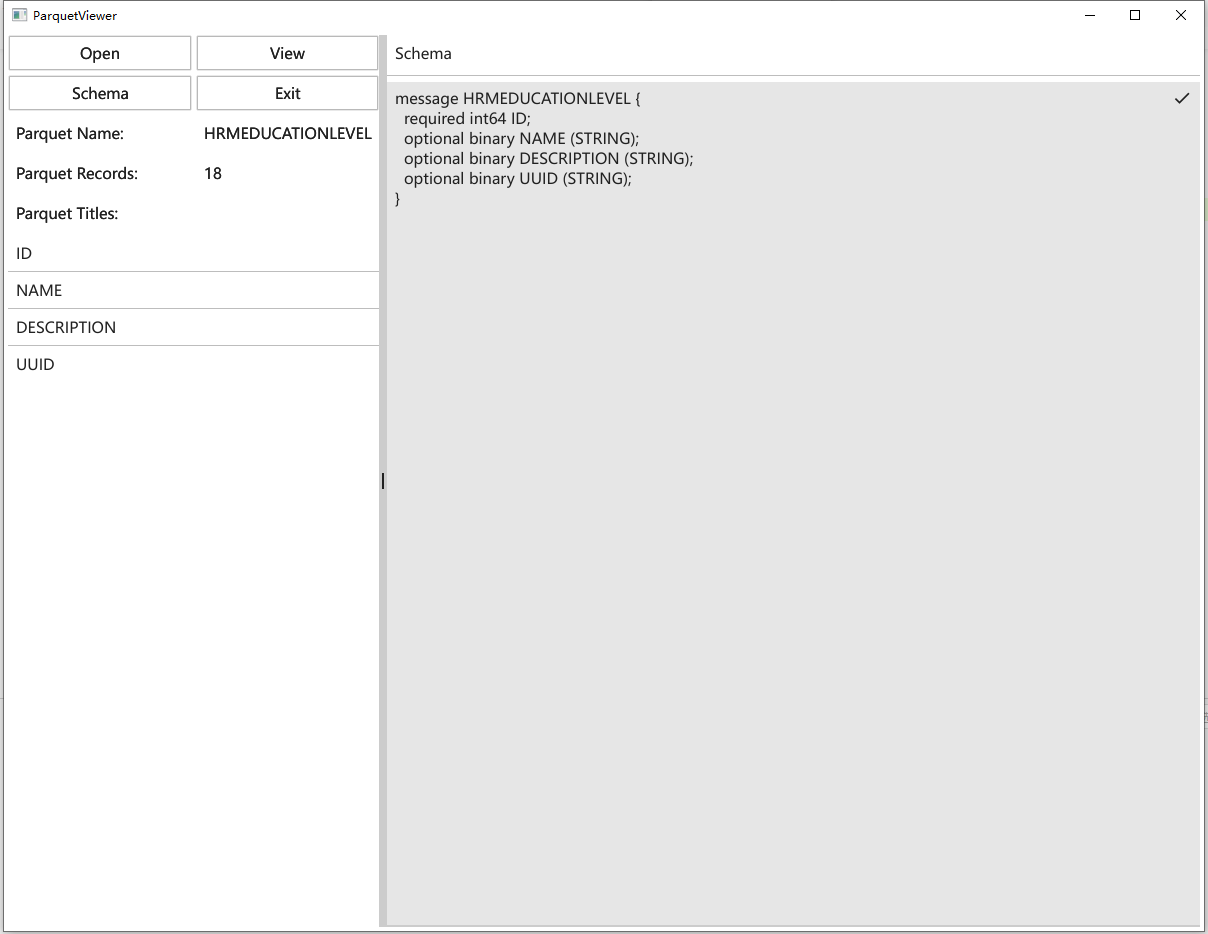
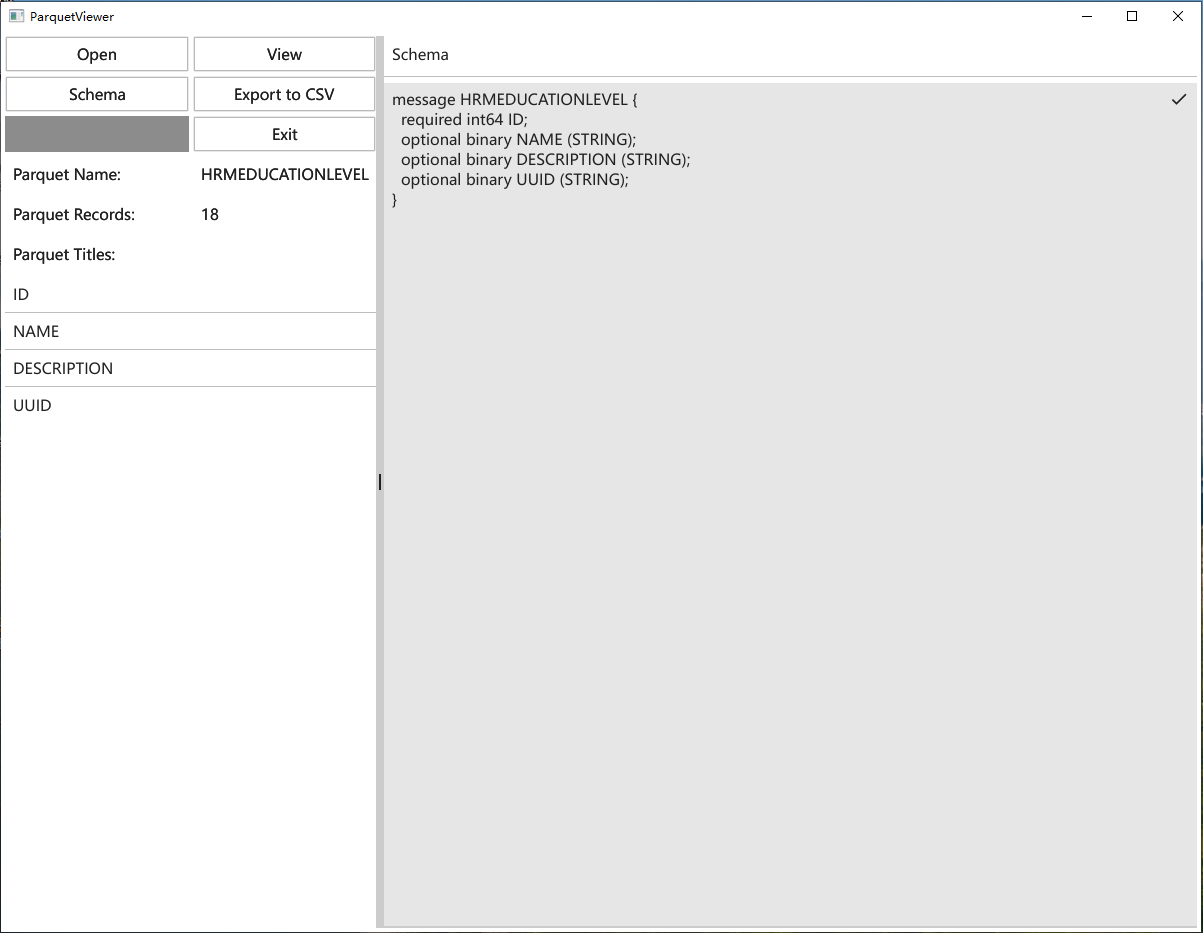
增加CSV导出功能

Changed region(s): [[0.0, 0.0, 1.0, 1.0], [0.3076, 0.4973, 0.3383, 0.5284]]

diff --git a/main.go b/main.go
@@ -1,6 +1,7 @@
 package main
 
 import (
+	"encoding/csv"
 	"fmt"
 	"net/url"
 	"os"
@@ -152,7 +153,7 @@ func main() {
 		if reader == nil {
 			fmt.Println("Cancelled choose")
 		} else {
-			dialogPro := dialog.NewProgressInfinite("Loading", "Please be patient, the data is loading", myWindow)
+			dialogPro := dialog.NewCustom("Loading", "OK", container.New(layout.NewVBoxLayout(), widget.NewLabel("Please be patient, the data is loading"), widget.NewProgressBarInfinite()), myWindow)
 			dialogPro.Show()
 			//初始化数据
 			parquetInfo.recordtile = []string{}
@@ -207,9 +208,9 @@ func main() {
 	maincontent := container.NewBorder(
 		container.NewVBox(title, widget.NewSeparator()), nil, nil, nil, content)
 	if fyne.CurrentDevice().IsMobile() {
-		myWindow.SetContent(makeNav(setMiddleContent, makeNavPara))
+		myWindow.SetContent(makeNav(setMiddleContent, makeNavPara, myWindow, &parquetInfo))
 	} else {
-		split := container.NewHSplit(makeNav(setMiddleContent, makeNavPara), maincontent)
+		split := container.NewHSplit(makeNav(setMiddleContent, makeNavPara, myWindow, &parquetInfo), maincontent)
 		split.Offset = 0.2
 		myWindow.SetContent(split)
 	}
@@ -234,7 +235,7 @@ func parseURL(urlStr string) *url.URL {
 	return link
 }
 
-func makeNav(setMiddleContent func(mc MiddleContent), para MakeNavPara) fyne.CanvasObject {
+func makeNav(setMiddleContent func(mc MiddleContent), para MakeNavPara, mWindow fyne.Window, parquetInfo *ParquetInfo) fyne.CanvasObject {
 
 	setMiddleContent(para.welcomMiddle)
 
@@ -243,11 +244,41 @@ func makeNav(setMiddleContent func(mc MiddleContent), para MakeNavPara) fyne.Can
 			para.fd.Show()
 		}),
 		widget.NewButton("View", func() {
-			setMiddleContent(para.tableMiddle)
+			if parquetInfo.filePath != "" {
+				setMiddleContent(para.tableMiddle)
+			} else {
+				warningDlg := dialog.NewInformation("Info", "Please open the parquet file first", mWindow)
+				warningDlg.Show()
+			}
+
 		}),
 		widget.NewButton("Schema", func() {
-			setMiddleContent(para.schemaMiddle)
+			if parquetInfo.schemaName != "" {
+				setMiddleContent(para.schemaMiddle)
+			} else {
+				warningDlg := dialog.NewInformation("Info", "Please open the parquet file first", mWindow)
+				warningDlg.Show()
+			}
+
 		}),
+
+		widget.NewButton("Export to CSV", func() {
+			if parquetInfo.filePath != "" {
+				dialogMou := dialog.NewCustom("Writing", "OK", container.New(layout.NewVBoxLayout(), widget.NewLabel("Please be patient, the data is writing"), widget.NewProgressBarInfinite()), mWindow)
+				dialogMou.Show()
+				filename := parquetInfo.schemaName + ".csv"
+				columns := parseAllRecords(parquetInfo.filePath, parquetInfo)
+				exportCsv(filename, *columns, mWindow)
+				dialogMou.Hide()
+				dialogFinish := dialog.NewInformation("Congratulations", "The file has been exported to "+filename, mWindow)
+				dialogFinish.Show()
+			} else {
+				warningDlg := dialog.NewInformation("Info", "Please open the parquet file first", mWindow)
+				warningDlg.Show()
+			}
+
+		}),
+		widget.NewSeparator(),
 		widget.NewButton("Exit", func() {
 			a := fyne.CurrentApp()
 			a.Quit()
@@ -275,4 +306,19 @@ func makeNav(setMiddleContent func(mc MiddleContent), para MakeNavPara) fyne.Can
 	)
 
 	return container.NewBorder(topcontent, nil, nil, nil, topcontent, schemaList)
+}
+
+func exportCsv(filePath string, data [][]string, mWindow fyne.Window) {
+	fp, err := os.Create(filePath) // 创建文件句柄
+	if err != nil {
+		dialog.ShowError(err, mWindow)
+		// fmt.Printf("创建文件["+filePath+"]句柄失败,%v", err)
+		return
+	}
+	defer fp.Close()
+
+	fp.WriteString("\xEF\xBB\xBF") // 写入UTF-8 BOM
+	w := csv.NewWriter(fp)         //创建一个新的写入文件流
+	w.WriteAll(data)
+	w.Flush()
 }

diff --git a/parseparquet.go b/parseparquet.go
@@ -75,6 +75,61 @@ func parse(filepath string, parquetInfo *ParquetInfo) {
 	parquetInfo.recordsum = count
 }
 
+func parseAllRecords(filepath string, parquetInfo *ParquetInfo) *[][]string {
+	r, err := os.Open(filepath)
+	if err != nil {
+		log.Printf("Printing file %s", err.Error())
+	}
+	defer r.Close()
+
+	fr, err := goparquet.NewFileReader(r)
+	if err != nil {
+		log.Printf("Printing file %s", err.Error())
+	}
+
+	allrecords := make([][]string, parquetInfo.recordsum+1)
+	//首先添加表头
+	oriColums := fr.Columns()
+	colLen := len(oriColums)
+	for i := 0; i < colLen; i++ {
+		allrecords[0] = append(allrecords[0], oriColums[i].Name())
+	}
+	count := 0
+	for {
+
+		if count >= parquetInfo.recordsum { //如果超过最大条数，则跳出循环,防止内存溢出
+			break
+		}
+
+		row, err := fr.NextRow()
+		if err == io.EOF {
+			break
+		}
+		if err != nil {
+			fmt.Println("reading record failed: %w", err)
+		}
+
+		for j := 0; j < len(allrecords[0]); j++ {
+			findKey := false
+			for key, v := range row {
+				if vv, ok := v.([]byte); ok {
+					v = string(vv)
+				}
+				if allrecords[0][j] == key {
+					singleValue := Strval(v)
+					allrecords[count+1] = append(allrecords[count+1], singleValue)
+					findKey = true
+				}
+			}
+			if !findKey {
+				allrecords[count+1] = append(allrecords[count+1], "")
+			}
+		}
+		count++
+	}
+	return &allrecords
+}
+
 func Strval(value interface{}) string {
 	var key string
 	if value == nil {

diff --git a/README.md b/README.md
@@ -7,18 +7,20 @@
 
 ![](sreenshot/4.png)
 
+![](sreenshot/5.png)
+
 **Only available for windows version download**
 
 ### **Currently supported features**
 
 1. 20 records preview
 2. Total number of file records
-3. file structure
+3. File structure
+4. Support to convert to CSV
 
 ### **future features**
 
 1. SQL-like query function
-2. Format conversion function (CSV, JSON, etc.)
 
 ### Reference library
 
@@ -35,11 +37,11 @@
 1. parquet文件记录预览（20条）
 2. parquet文件记录总数
 3. parquet文件结构详情
+4. parquet文件转CSV
 
 ### **计划功能**
 
 1. 类SQL查询功能
-2. 格式转换功能(可转为CSV,JSON等)
 
 ### 引用库
 
